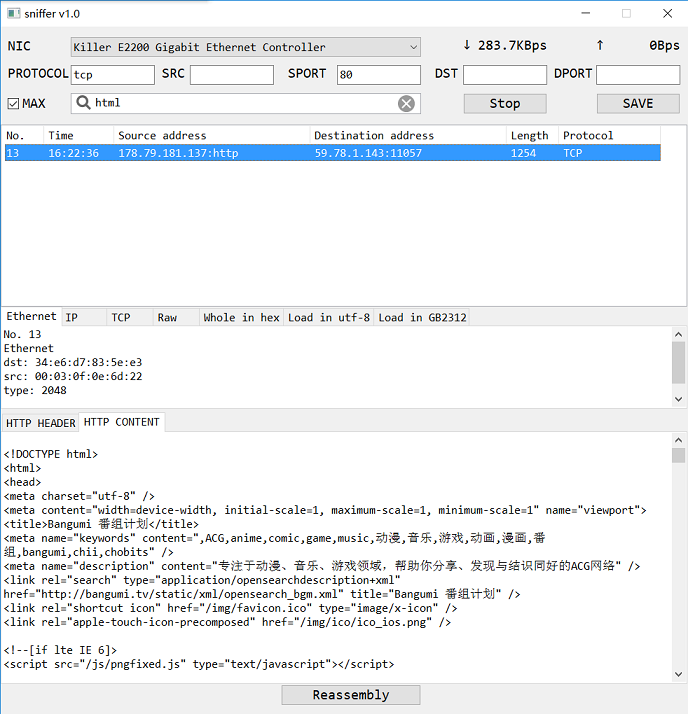
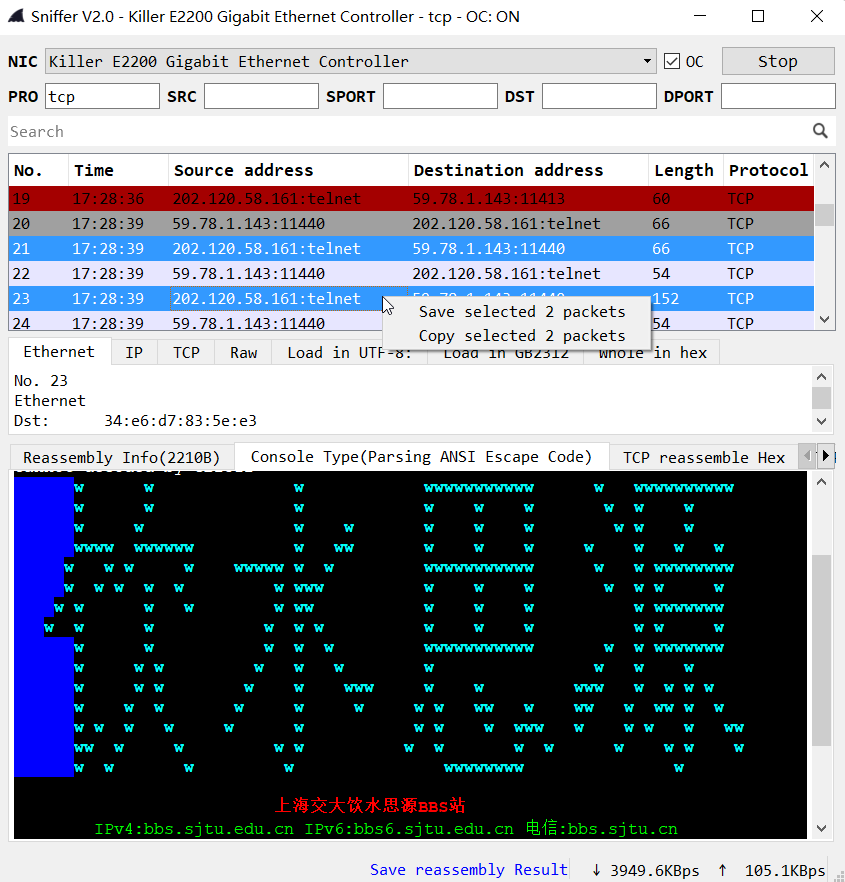
ReadMe

diff --git a/main.py b/main.py
@@ -2,10 +2,10 @@ from PyQt5 import QtCore, QtGui, QtWidgets
 from PyQt5.QtGui import QIcon, QFont, QCursor, QPixmap, QColor, QKeySequence
 from PyQt5.QtCore import pyqtSlot, QThread, Qt, pyqtSignal, QPoint
 from PyQt5.QtWidgets import QHBoxLayout, QFrame, QAbstractItemView, QSplitter, \
-                            QStyleFactory, QMenu, QShortcut,\
-                            QMainWindow, QApplication, QWidget, QAction, QTableWidget,\
-                            QTableWidgetItem, QVBoxLayout, \
-                            QTabWidget, QProgressBar, QFileDialog, QCompleter
+    QStyleFactory, QMenu, QShortcut,\
+    QMainWindow, QApplication, QWidget, QAction, QTableWidget,\
+    QTableWidgetItem, QVBoxLayout, \
+    QTabWidget, QProgressBar, QFileDialog, QCompleter
 
 
 from threading import Thread
@@ -29,6 +29,7 @@ from httpconverter import HttpConverter
 import ansiconv
 
 from contextlib import contextmanager
+
 
 @contextmanager
 def redirect_stderr(new_target):
@@ -174,6 +175,7 @@ class NewButton(QtWidgets.QPushButton):
     """
     A new button class derived from QPushButton
     """
+
     def enterEvent(self, event):
         """Refine mouse enter event of the button.
         
@@ -197,6 +199,7 @@ class Table(QtWidgets.QTableWidget):
     
     Modify contextMenuEvent to save selected packet(s)
     """
+
     def contextMenuEvent(self, event):
         """Refine contextMenu Event of the QtableWidget.
         
@@ -212,7 +215,7 @@ class Table(QtWidgets.QTableWidget):
         else:
             saveAction = QtWidgets.QAction('Save selected packet', self)
             copyAction = QtWidgets.QAction('Save selected packet', self)
-        
+
         saveAction.triggered.connect(self.SaveReadablePackets)
         saveAction.triggered.connect(self.CopyReadablePackets)
         self.menu.addAction(saveAction)
@@ -230,15 +233,15 @@ class Table(QtWidgets.QTableWidget):
         for i in self.selectedItems():
             a.append(i.row())
         filename = QFileDialog.getSaveFileName(filter="Text files (*.txt)")[0]
-        s=""
+        s = ""
         if (filename != ""):
             f = open(filename, "w")
-            l=set(a)
+            l = set(a)
             list(l).sort()
             for i in l:
                 if (share.flag_search == True):
                     i = share.dict_search[i]
-                s+=self.GetReadablePackets(i)
+                s += self.GetReadablePackets(i)
             f.write(s)
             f.close()
             # open the file as soon as the progress of saving is finished
@@ -252,29 +255,29 @@ class Table(QtWidgets.QTableWidget):
         
         """
         cb = QtWidgets.QApplication.clipboard()
-        cb.clear(mode=cb.Clipboard )
+        cb.clear(mode=cb.Clipboard)
         a = []
         for i in self.selectedItems():
             a.append(i.row())
-        s=""
-        l=set(a)
+        s = ""
+        l = set(a)
         list(l).sort()
         for i in l:
             if (share.flag_search == True):
                 i = share.dict_search[i]
-            s+=self.GetReadablePackets(i)
+            s += self.GetReadablePackets(i)
         cb.setText(s, mode=cb.Clipboard)
 
-    def GetReadablePackets(self,i):
+    def GetReadablePackets(self, i):
         """Using index to give readable packets
         
         Return readable packets' string.
         Args:
             i: index of the packet in list_packet
         """
-        return ('No.' + str(share.list_packet[i].num) + '\nCapture Time:' + share.list_packet[i].time +\
-                        '\tSave Time:' + datetime.now().strftime("%H:%M:%S") +\
-                        '\n' + share.list_packet[i].show(dump=True) + '\n')
+        return ('No.' + str(share.list_packet[i].num) + '\nCapture Time:' + share.list_packet[i].time +
+                '\tSave Time:' + datetime.now().strftime("%H:%M:%S") +
+                '\n' + share.list_packet[i].show(dump=True) + '\n')
 
 
 class Ui_MainWindow(object):
@@ -403,7 +406,6 @@ class Ui_MainWindow(object):
         hbox.setSpacing(0)
         self.searchbar.returnPressed.connect(self.Evtsearch)
 
-
         '''3nd line layout'''
         self.gridLayout.addLayout(hbox, 2, 0, 1, 10)
         self.gridLayout.addWidget(self.button, 0, 9, 1, 1)
@@ -439,15 +441,13 @@ class Ui_MainWindow(object):
         #select a row when clicking
         self.tableWidget.setSelectionBehavior(QTableWidget.SelectRows)
         self.tableWidget.setMouseTracking(True)
-    
-        
+
         # QThread to receive signal of adding and scrolling
         self.th = ProcessingThread()
         self.th.AddPacket.connect(self.AddPacketToTable)
         self.th.Scroll.connect(self.ScrollToEnd)
         self.th.start()
 
-        
         """tab1"""
         self.tabWidget = QtWidgets.QTabWidget(self.centralwidget)
         self.tabWidget.setMinimumHeight(50)
@@ -513,7 +513,7 @@ class Ui_MainWindow(object):
         self.th2 = NetworkspeedThread()
         self.th2.SetNetworkSpeed.connect(self.SetSpeedOnStatusBar)
         self.th2.start()
-        
+
         #whether have http content
         self.http_content = ""
 
@@ -524,11 +524,11 @@ class Ui_MainWindow(object):
             QKeySequence("Ctrl+F"), self.centralwidget)
         self.colorshortcut.activated.connect(self.ColorMode)
         #copy packets
-        self.copypacket= QShortcut(
+        self.copypacket = QShortcut(
             QKeySequence("Ctrl+C"), self.centralwidget)
         self.copypacket.activated.connect(self.tableWidget.CopyReadablePackets)
         #save packets
-        self.copypacket= QShortcut(
+        self.copypacket = QShortcut(
             QKeySequence("Ctrl+S"), self.centralwidget)
         self.copypacket.activated.connect(self.tableWidget.SaveReadablePackets)
         self.title = 'Sniffer V2.0'
@@ -537,7 +537,6 @@ class Ui_MainWindow(object):
         self.MainWindow.setWindowTitle(self.title)
         QtCore.QMetaObject.connectSlotsByName(MainWindow)
 
-   
     def ColorMode(self):
         """Change Color Mode
         
@@ -600,7 +599,7 @@ class Ui_MainWindow(object):
         Args:
             l: [speed_up,speed_down] emitted from QThread
         """
-        
+
         s_up = l[0]
         s_down = l[1]
         if s_up // 1024 < 1:
@@ -625,7 +624,7 @@ class Ui_MainWindow(object):
         from QThread.
         Args:
             l: string means nothing, only to fit the signal requirements
-        """    
+        """
         self.tableWidget.scrollToBottom()
 
     def AddPacketToTable(self, l):
@@ -669,7 +668,7 @@ class Ui_MainWindow(object):
         
         The event for entering the src, 
         which is to save it for filter(default:all)
-        """        
+        """
         global flag_dict
         flag_dict['src'] = self.src.text()
 
@@ -678,7 +677,7 @@ class Ui_MainWindow(object):
         
         The event for entering the sport, 
         which is to save it for filter(default:all)
-        """  
+        """
         global flag_dict
         flag_dict['sport'] = self.sport.text()
 
@@ -687,7 +686,7 @@ class Ui_MainWindow(object):
         
         The event for entering the dst, 
         which is to save it for filter(default:all)
-        """  
+        """
         global flag_dict
         flag_dict['dst'] = self.dst.text()
 
@@ -696,7 +695,7 @@ class Ui_MainWindow(object):
         
         The event for entering the dport, 
         which is to save it for filter(default:all)
-        """  
+        """
         global flag_dict
         flag_dict['dport'] = self.dport.text()
 
@@ -709,9 +708,11 @@ class Ui_MainWindow(object):
         global flag_dict
         flag_dict['start'] = not flag_dict['start']
         if (flag_dict['start']):
+            filterstr=InputToFilter(flag_dict) if (InputToFilter(flag_dict)!="") else "ALL"
             self.button.setText('Stop')
             title = self.title + " - " + \
-                flag_dict["iface"] + " - " + InputToFilter(flag_dict)
+                flag_dict["iface"] + " - " + \
+                filterstr
             if (flag_dict["max"]):
                 title += " - OC: ON"
             else:
@@ -749,7 +750,10 @@ class Ui_MainWindow(object):
                 return
         share.flag_select = True
         share.flag_cancel = False
-        self.val = val
+        try:
+            self.val = val
+        except UnboundLocalError:
+            return
         self.final_tcp_seq = ""
         self.final_ip_seq = ""
         self.http_content = ""
@@ -773,10 +777,12 @@ class Ui_MainWindow(object):
                     "%-10s%s\n" % ((key[0].upper() + key[1:] + ":"), i[1][key])
             self.CreateNewTab(self.tabWidget, i[0], s)
         try:
-            self.CreateNewTab(self.tabWidget, "Load in UTF-8",
-                              share.list_packet[val].packet_to_load_utf8())
+            s = ""
+            s = s + "No. " + str(val) + "\n" + i[0]+"\n"
+            self.CreateNewTab(self.tabWidget, "Load in UTF-8:",
+                              s + "Decoded by UTF-8:\n" + share.list_packet[val].packet_to_load_utf8())
             self.CreateNewTab(self.tabWidget, "Load in GB2312",
-                              share.list_packet[val].packet_to_load_gb())
+                              s + "Decoded by GB2312:\n" + share.list_packet[val].packet_to_load_gb())
         except:  # no load or decode error
             pass
         self.CreateNewTab(self.tabWidget, "Whole in hex",
@@ -970,7 +976,8 @@ class Ui_MainWindow(object):
                     </html>
                     """.format(css, html)
                 a.setHtml(html)
-                self.tabWidget_2.addTab(a, 'Console Type')
+                self.tabWidget_2.addTab(
+                    a, 'Console Type(Parsing ANSI Escape Code)')
             self.CreateNewTab(self.tabWidget_2, "TCP reassemble Hex", s_raw)
             self.CreateNewTab(self.tabWidget_2, "TCP reassemble UTF-8", s_utf8)
             self.CreateNewTab(self.tabWidget_2, "TCP reassemble GB2312", s_gb)
@@ -986,7 +993,7 @@ class Ui_MainWindow(object):
             self.ShowIpResult()
 
     def EvtSaveReassemble(self):
-         """Save Reassemble to file.
+        """Save Reassemble to file.
         
         Save Reassemble to file, the location of which is specified by user.
         It may take some time to process, but you can see the process in progress bar.
@@ -1069,7 +1076,7 @@ class ProcessingThread(QThread):
     The major parsing packets happens here, which is to get each packet from
     Queue in sniffing process and parse it one by one.
     """
-    
+
     AddPacket = pyqtSignal(list)
     Scroll = pyqtSignal(str)
 
@@ -1213,13 +1220,12 @@ def InputToFilter(flag_dict):
 
 def InfiniteProcess(flag_dict, pkt_lst):
     """The infinite process of sniffing.
-    
+
     The dedicated process to sniff, which is to get the iface and filter and then starting sniffing.
     Args:
         flag_dict: manager.dict  pass args between processes.
         pkt_lst:   manager.queue pass pkts between processes.
     """
-
 
     """"""
     while (flag_dict['close'] == False):

diff --git a/README.md b/README.md
@@ -14,7 +14,7 @@ Only test and modify the lib concerning Windows users.
 
 Need to install [Win10Pcap(Recommended)](http://www.win10pcap.org/), Npcap(might have slight issue of missing certain packets).
 
-#### GUI: wxPython
+#### GUI: PyQt5
 
 #### Other libs: 
 
@@ -68,8 +68,6 @@ Please notice that this feature will only take effect when you stop because it w
 
 
 ## Sample
-### Sniffer v1.0:
+### Sniffer v2.0:
 ![Sample](/sample.png "Sample")
 
-### Sniffer v1.1:
-![Sample](/sample2.png "New Feature")
